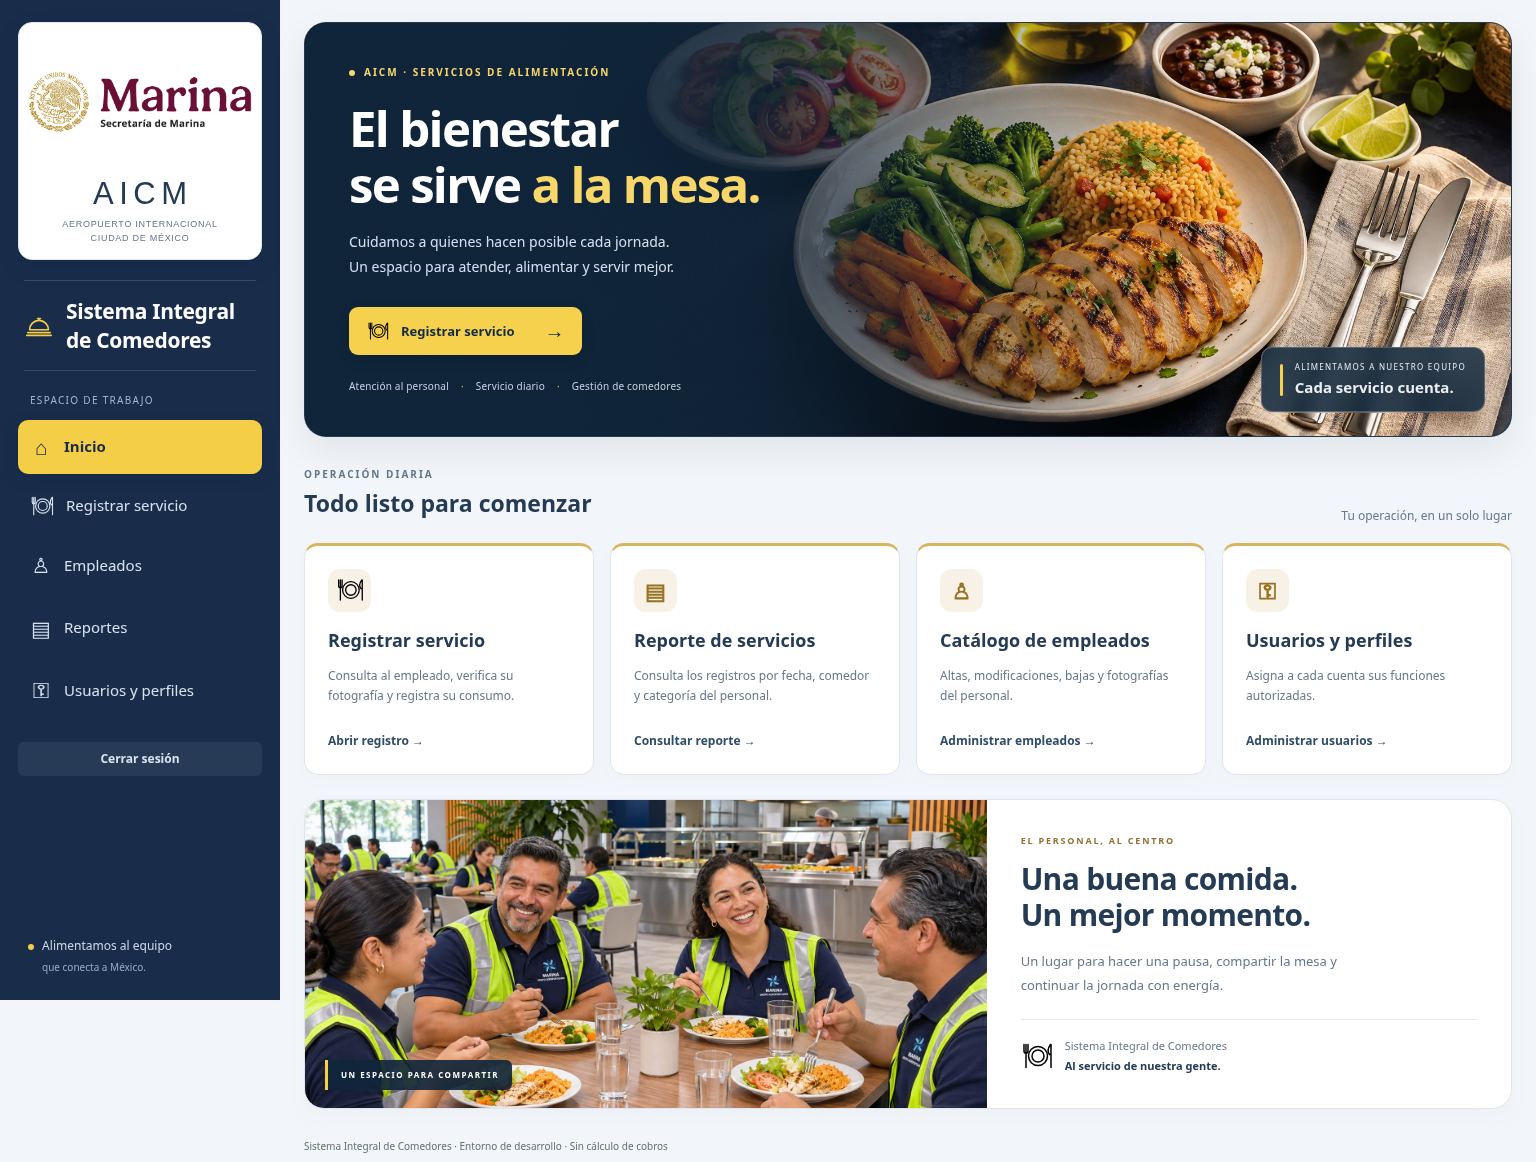
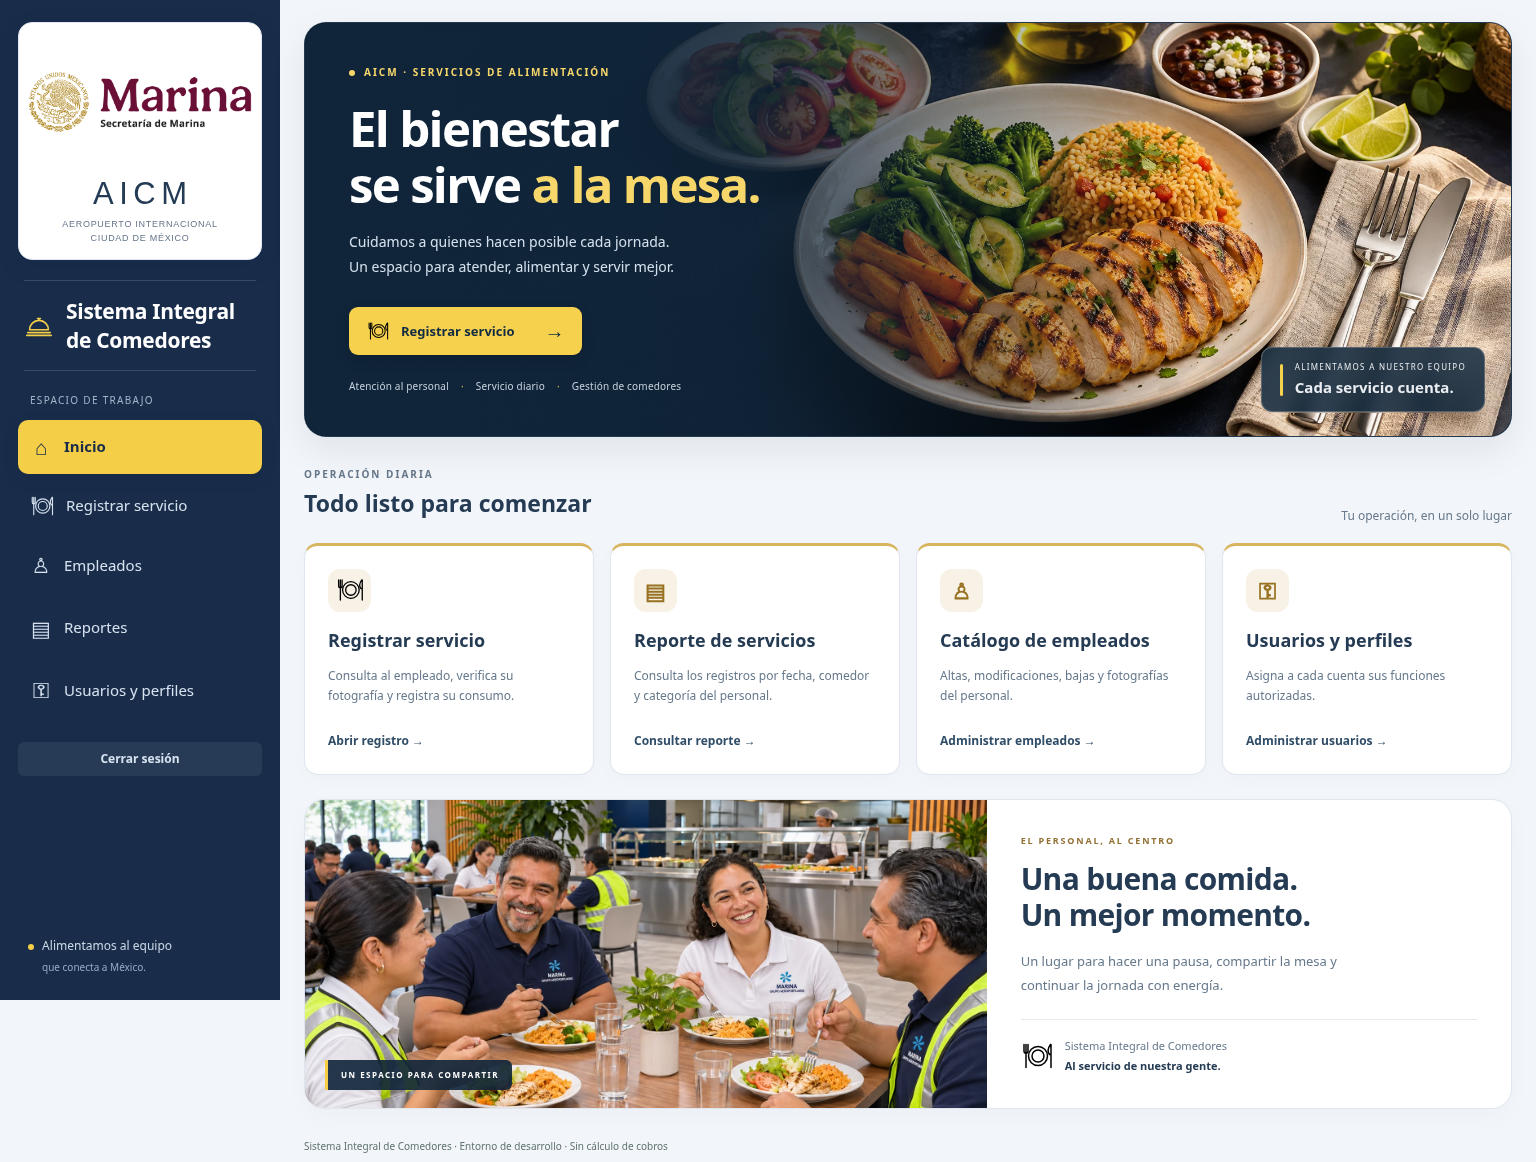
Alterna polos blancos y azules con dos chalecos en imagen del comedor

diff --git a/docs/DISENO-COMIDAS.md b/docs/DISENO-COMIDAS.md
@@ -1,6 +1,6 @@
 # Diseño de inicio: alimentos y comedor
 
-La cabecera presenta un plato servido sobre fondo azul institucional y una sección inferior muestra personas compartiendo alimentos en un comedor industrial, con chalecos verdes de seguridad, franjas reflejantes y polos azul marino con el emblema de Grupo Aeroportuario Marina. Ambas imágenes son ilustraciones fotográficas generadas para el diseño; no documentan instalaciones ni personal reales del AICM. Se conserva la identidad de Marina y todos los permisos y destinos de los accesos. El icono de avión se sustituye por una campana de servicio y el fondo de acceso utiliza la nueva imagen gastronómica.
+La cabecera presenta un plato servido sobre fondo azul institucional y una sección inferior muestra personas compartiendo alimentos en un comedor industrial, con dos personas con chalecos verdes de seguridad y dos sin chaleco en primer plano, alternando polos blancos y azul marino con el emblema de Grupo Aeroportuario Marina. Ambas imágenes son ilustraciones fotográficas generadas para el diseño; no documentan instalaciones ni personal reales del AICM. Se conserva la identidad de Marina y todos los permisos y destinos de los accesos. El icono de avión se sustituye por una campana de servicio y el fondo de acceso utiliza la nueva imagen gastronómica.
 
 ![Inicio del sistema con alimentos y comedor](capturas/inicio-comidas.png)
 
